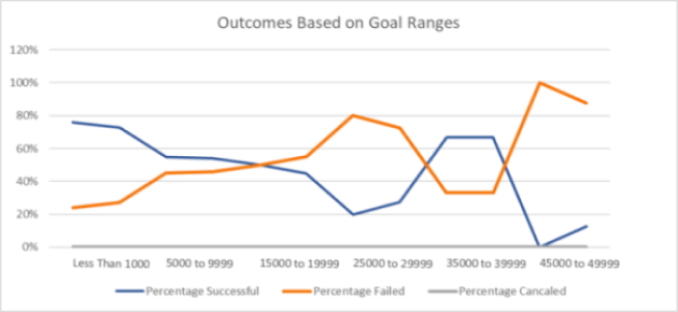
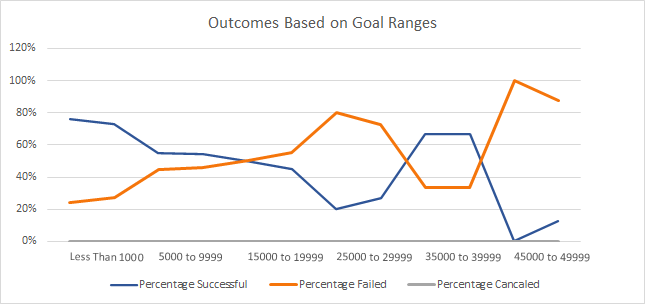
Complete needs review2

diff --git a/README.md b/README.md
@@ -14,34 +14,36 @@ In the analysis based on launch date we viewed the data set by the month of the 
 The raw data can be found in the Excel workbook linked below on the workshet entitled "Kickstarter". The data Analysis can be found on the worksheet entitled "Theater Outcomes by Launch Date".  This file can be downloaded.
 *   https://github.com/SusanFair/kickstarter-analysis/blob/main/Kickstarter_Challenge.xlsx
 
-### Chalenges
+
+### Analysis of Outcomes Based on Goals
+In the analysis based on campaign funding Goal sizes we sorted the data set by funding dollar amounts within specified monitary ranges. The scope of the analysis was theatrical play campaigns which were successful, failed or canceled over the complete timefame of the data available. Using the analysis tools at hand this project will provide Louise with guidance on the most successful campaign goal size for her future campaign. Using COUNTIFS formulas to narrow and filter the data we derived a table and the accompanying chart so as to clearly show the results of this analysis.
+
+The raw data can be found in the Excel workbook linked below on the workshet entitled "Kickstarter". The data Analysis can be found on the worksheet entitled "Outcomes Based on Goals". This file can be downloaded.
+
+* https://github.com/SusanFair/kickstarter-analysis/blob/main/Kickstarter_Challenge.xlsx
+
+#### Ranges
+The goal ranges used were as follows:
+
+1000 to 4999
+5000 to 9999
+10000 to 14999
+15000 to 19999
+20000 to 24999
+25000 to 29999
+30000 to 34999
+35000 to 39999
+40000 to 44999
+45000 to 49999
+50000 or More
+
+### Challenges and Difficulties Encountered
+## Analysis of Outcomes Based on Launch Date Challenges
 The challenge of drilling down to months instead of years was solved by adjusting the rows category in the PivotTable Fields configuration. 
 
 ![PivotTable Rows field](https://github.com/SusanFair/kickstarter-analysis/blob/main/Resources/PivotTable_Field_Config.PNG)
 
-
-### Analysis of Outcomes Based on Goals
-
-### Challenges and Difficulties Encountered
-In the analysis based on campaign funding Goal sizes we sorted the data set by funding dollar amounts within specified monitary ranges.  The scope of the analysis was theatrical play campaigns which were successful, failed or canceled over the complete timefame of the data available. Using the analysis tools at hand this project will provide Louise with guidance on the most successful campaign goal size for her future campaign. Using COUNTIFS formulas to narrow and filter the data we derived a table and the accompanying chart so as to clearly show the results of this analysis.
-
-The raw data can be found in the Excel workbook linked below on the workshet entitled "Kickstarter". The data Analysis can be found on the worksheet entitled "Outcomes Based on Goals". This file can be downloaded.
-*   https://github.com/SusanFair/kickstarter-analysis/blob/main/Kickstarter_Challenge.xlsx
-
-The goal ranges used were as follows:
-* 1000 to 4999
-* 5000 to 9999
-* 10000 to 14999
-* 15000 to 19999
-* 20000 to 24999
-* 25000 to 29999
-* 30000 to 34999
-* 35000 to 39999
-* 40000 to 44999
-* 45000 to 49999
-* 50000 or More
-
-### Challenges
+### Analysis of Outcomes Based on Goals Challenges
 The challenge in this analysis was the new formula for COUNTIFS where there were multiple criteria used to filter the count.  The provided video gave helpful guidance in creating the required filters.
 
 ## Results
